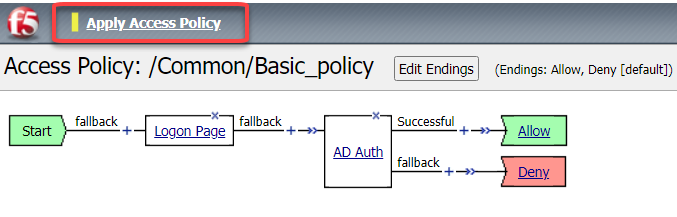
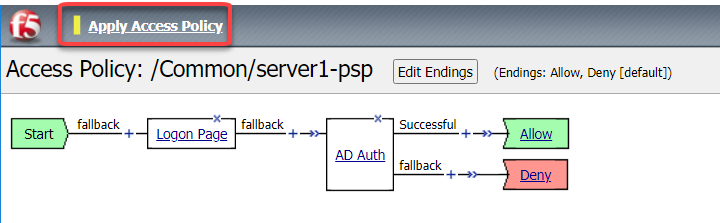
updates

diff --git a/class1/module1/lab01.rst b/class1/module1/lab01.rst
@@ -514,10 +514,10 @@ BIG-IP APM supports industry standard authentication methods, including:
     .. Note:: Client-side authentication methods outnumber server-side methods. This is because BIG-IP APM does not transmit client certificate, RSA SecurID, or one-time passcodes to the server on the client’s behalf.
 
 #.  Go to **Access** --> **Single Sign-On** --> **HTTP Basic**
-#.  Click **Create**
+#.  Click **basic_http_sso**
 
         +----------------------+-----------------------------+----------------------------------+
-        |General Properties    | Name                        |  Basic_http_sso                  |
+        |General Properties    | Name                        |  basic_http_sso                  |
         +----------------------+-----------------------------+----------------------------------+
         |Credential Source     | Username Source             |  session.sso.token.last.username |
         +----------------------+-----------------------------+----------------------------------+
@@ -528,66 +528,31 @@ BIG-IP APM supports industry standard authentication methods, including:
 
         .. Note::  Username conversion can be enabled if you want domain\username or username@domain to convert to just username.
 
-#. Click **Finished**
 #. Click on **Access** --> *Profiles/Policies** --> **Access Profiles (Per-Session Policies)**
-#. Locate your server1-psp profile and click on the name
+#. Locate the basic-psp profile and click on the name
 #. Click on **SSO/Auth Domains**
-#. Under SSO Configuration click the drop down and select **Basic_http_sso** click update
-#. From the top menu bar click **Access Policy** and click **Edit Access Policy for Profile "server1-psp"** link
+#. Under SSO Configuration click the drop down and select **basic_http_sso** click update
+#. From the top menu bar click **Access Policy** and click **Edit Access Policy for Profile "basic-psp"** link
 #. Click the **+** between **AD Auth** and **Allow**
 #. Click on **Assignment** and choose **SSO Credential Mapping** -->  **Add Item** -->  **Save**
 #. Click **Apply Policy**
-#. Open an incognito window and try go to https://server2.acme.com
+#. Open an incognito window and try go to https://basic.acme.com
 #. You should have been prompted with a windows login.  Close the Window
 #. Go to **Local Traffic** --> **Virtual Servers** and open server2-https
-#. Scroll to *Access Policy** and click the drop down next to **Access Profile**.  Choose server1-psp
+#. Scroll to *Access Policy** and click the drop down next to **Access Profile**.  Choose basic-psp
 #. Scroll down click **Update**
-#. Open a new incognito tab.  Go to https://server2.acme.com
+#. Open a new incognito tab.  Go to https://basic.acme.com
 #. Login **user1** and **user1**
 #. Now you should have been signed in to the backend server with Single Sign On.
 
 Task 7: Federation
 ----------------------------
 
-**Authentication and authorization**
-
-    Most organizations require users to verify their identity (authenticate). Additionally, most organizations control (authorize) the resources each user can access and the actions they can take when using their applications (services), based on their identity.
-
-**Identity providers and service providers**
-
-    Federation is an agreement between organizations to trust user authentication and/or authorization from one organization (identity provider (IdP)) to access services from the other organizations in the group (service providers (SPs)). In this model, one organization can be both the IdP and an SP or simply an SP.
-
-    Federation provides many benefits to organizations and users, including single sign-on (SSO), which enables users to avoid logging in to each SP.
-
-**Standard web security protocols**
-
-    To manage and map identities across geographies, SPs, and services, federation relies on common standards and protocols.
-
-**SAML 2.0**
-
-    Security Assertion Markup Language (SAML) 2.0 is an open standard for exchanging authentication and authorization data between SPs. SAML 2.0 is an XML-based language that shares messages containing user information (assertions) while protecting their identity, thereby enabling a trusted relationship between SPs to perform services. SAML 2.0 relies on Simple Object Access Protocol (SOAP) to make web service calls.
-
-**Faster and easier**
-
-    However, in recent years, representational state transfer (REST) has gained popularity as a light-weight alternative to SOAP that makes web service calls more quickly. Developers combine REST with JSON to transmit user data, instead of XML, because it is easier to implement and contains small, compact messages. This combination is the basis for OAuth 2.0 and OpenID Connect.
-
-**OAuth 2.0**
-
-    OAuth 2.0 is an open standard for exchanging authorization data—but not authentication data—between SPs. It is a set of defined process flows for accessing resources on behalf of the user (delegated authorization).
-
-    In this model, the user (resource owner) has a resource hosted by one SP (on a resource server) that they want to make available to another SP (client), such as importing a list of contacts. The resource server must authorize the client’s access (using an authorization server) on behalf of the user. The resource owner does not sign in to the client, which requires authentication; however, the resource owner may be prompted to give consent to authorize the client’s access. For more information about BIG-IP APM and OAuth 2.0, refer to OAuth authorization.
-
-**OpenId Connect**
-
-    OpenId Connect is an open standard for exchanging authentication data—but not authorization data—between SPs. OpenId Connect uses OAuth 2.0 and adds additional steps over its process flows to perform authentication. In short, when an authorization server is enabled for OpenId Connect, it provides an ID token in addition to an access token.
-
-    In this model, users use their account from one SP to sign in to another, such as using a Google or Facebook account to sign in to another website. The SP owning the account is the IdP with the authorization server and the other SP is the client.
-
 **BIG-IP APM federation with SAML**
 
     BIG-IP APM supports SAML 2.0 and can act as the IdP for popular SPs, such as Microsoft Office 365 and Salesforce. The system supports both IdP- and SP-initiated identity federation deployments.
 
-    IdP-initiated federation with BIG-IP APM
+IdP-initiated federation with BIG-IP APM
 
         |samlidp|
 
@@ -613,54 +578,6 @@ SP-initiated federation with BIG-IP APM
 
 #. Tasks login to sp.acme.com
 #. Look at Policy
-
-**Using a custom SP portal instead of the BIG-IP APM webtop for federation**
-
-      Some enterprises do not want to use the built-in BIG-IP APM webtop as the portal to their SPs. Instead, they want to create their own, customized, external portal. For more information about the webtop, refer to Webtop.
-
-      As of BIG-IP APM 14.0, you can use a custom, external portal when you can use SAML inline SSO for federation. You must meet the following conditions:
-
-          - Federation is SP-initiated. That is, when a user visits an SP, the BIG-IP APM acts as the IdP.
-          - You have an existing per-session policy.
-          - Users visit the SP using the BIG-IP in BIG-IP LTM + BIG-IP APM mode.
-
-**Using SAML inline SSO**
-
-      When you use SAML inline SSO, when BIG-IP APM receives an SP authentication request, it generates a SAML assertion on-the-fly to automatically sign in the user. The BIG-IP APM IdP is chained so
-      that it accepts an assertion from another SAML IdP to create the session. The system constructs session data using the same method.
-
-      How it works
-
-          - You put an internal SP behind the virtual address for the IdP.
-          - You configure the internal SP server in a typical BIG-IP LTM pool on the virtual server. An SP that is load balanced by the BIG-IP can be either a SAML-enabled application or a third-party SAML SP.
-          - When the client transmits an authentication request to the BIG-IP APM IdP, the system generates assertions for the application.
-
-
-
-      |inlinesaml|
-
-         - The user attempts to access a resource and BIG-IP APM starts access policy evaluation.
-         - The system authenticates the user.
-         - The user resends the original request.
-         - The BIG-IP system load balances the request to a pool member associated with the virtual server.
-         - When the user doesn’t have a valid session, the internal SP or SAML-enabled application generates an authentication request and redirects the user to the IdP.
-         - The system forwards the application response to the user, the browser evaluates it, and it results in an authentication request.
-         - The user submits the authentication request back to the BIG-IP virtual server.
-         - The BIG-IP APM IdP validates the request and, when successful, generates an assertion.
-         - The system modifies the client’s HTTP request and releases it to the internal SP.
-         - The internal SP receives and validates the assertion for the BIG-IP system.
-         - The SP either provides access to the application or provides an error to the user, depending on the result of validation.
-
-         .. Note:: For more information about using SAML inline SSO, refer to K06743491: Overview of BIG-IP APM SAML inline SSO.
-
-**Using SAML inline SSO with multiple unique host names**
-
-      Typically, you identify, load balance, and secure an SP by giving it a unique virtual address and host name, such as salesforce.f5.com. However, when you have multiple SPs with unique host names
-      that you want to locate behind a single BIG-IP IdP, you don’t have to configure multiple BIG-IPs to act as IdP for each SP. That approach quickly becomes overly complex.
-
-      Instead, you can share a single access profile across all virtual addresses participating in SAML inline SSO. In this model, there is a main authentication virtual server that performs authentication
-      and generates SAML assertions when requested. The SPs on other virtual servers use the same access profile. For more information, refer to the SP-initiated multi-domain inline SAML SSO section in
-      K06743491: Overview of BIG-IP APM SAML inline SSO.
 
 
 Task 8: Connectivity/VPN
@@ -697,218 +614,64 @@ The Advanced Resource Assign agent grants a user access to the assigned resource
 
 **Supporting APM Objects**
 
-Network Access Resource
+**Network Access Resource**
 
-The Properties page contains the Caption name **VPN**.  This is the name displayed to a user.
+      The Properties page contains the Caption name **VPN**.  This is the name displayed to a user.
 
-|image005|
-
-
-- The Network Settings tab assigns the **lease pool** of ip addresses that will be used for the VPN.
-- Split Tunneling is configured to permit only the **10.1.20.0/24** subnet range inside the VPN.
-
-|image006|
+            |image005|
 
 
-Lease Pool
+      - The Network Settings tab assigns the **lease pool** of ip addresses that will be used for the VPN.
+      - Split Tunneling is configured to permit only the **10.1.20.0/24** subnet range inside the VPN.
 
-A single address of **10.1.20.254** is assigned inside the lease pool.
-
-|image007|
-
-
-Webtop Sections
-
-A single section is configured to display a custom name.
-
-|image008|
+            |image006|
 
 
-Webtop
+**Lease Pool**
 
-- A Full Webtop was defined with modified default settings.
-- The Minimize to Tray box is **checked** to ensure the Webtop is not displayed when a user connects to the VPN.
+      A single address of **10.1.20.254** is assigned inside the lease pool.
 
-|image009|
+            |image007|
 
-The Policy from a user's perspective
+
+**Webtop Sections**
+
+      A single section is configured to display a custom name.
+
+      |image008|
+
+
+      Webtop
+
+      - A Full Webtop was defined with modified default settings.
+      - The Minimize to Tray box is **checked** to ensure the Webtop is not displayed when a user connects to the VPN.
+
+      |image009|
+
+**The Policy from a user's perspective**
 
 
 #. The connects to https://solution1.acme.com with the following credentials
 
-   - Username: user1
-   - Password: user1
+         - Username: user1
+         - Password: user1
 
-|image010|
+      |image010|
 
 #. Once authenticated the user is presented a Webtop with a single VPN icon.
 
-|image011|
+      |image011|
 
 #. Assuming the VPN has already been installed the user is notified that the client is attempting to start
 
-|image012|
+      |image012|
 
 #. A popup opens displaying the status of the VPN connection.  The status will eventually become **Connected**
 
-|image013|
+      |image013|
 
 
-
-Task 9: API Protection
-----------------------------
-An API protection profile is the primary tool that Access Policy Manager administrators use to safeguard API servers. Protection profiles define groups of related RESTful APIs used by applications.
-The protection profile contains a list of paths that may appear in a request. The system classifies requests and sends them to specific API servers.
-
-The simplest way to create an API protection profile and establish API protection is using an OpenAPI Spec file to import the details of the APIs. If you use an OpenAPI Spec file, Access Policy
-Manager automatically creates the following (depending on what's included in the spec file):
-
-- API Protection Profile
-- Paths
-- API servers
-- Responses
-- Per-request policy with a Request Classification agent and a subroutine containing an OAuth scope check agent
-
-
-To enable API protection, the API Protection Profile must be associated with a virtual server. If using API Protection, the virtual server can have only one API Protection Profile associated with it.
-You cannot select other access profiles or per-request policies in that virtual server.
-
-
-Task 10: Secure Web Gateway
-----------------------------
-
-About APM Secure Web Gateway
-BIG-IP Access Policy Manager (APM) implements a Secure Web Gateway (SWG) for outbound access by providing access control based on URL categorization to forward proxy. With APM, you can create
-a configuration to protect your network assets and end users from threats, and enforce a use and compliance policy for Internet access. Users that access the Internet from the enterprise go through
-APM, which can allow or block access to URL categories or indicate that the user should confirm the URL before access can be allowed.
-Benefits of using APM for web access
-BIG-IP Access Policy Manager (APM®) controls basic website access purely based on user-defined URL categories. This feature is a part of base APM functionality, without requiring an SWG subscription.
-The benefits include:
-
-    URL filtering capability for outbound web traffic.
-    Monitoring and gating outbound traffic to maximize productivity and meet business needs.
-    User identification or authentication (or both) tied to logging, and access control compliance and accountability.
-    Visibility into SSL traffic.
-    Reports on blocked requests and all requests. (Reports depend on event logging settings.)
-    Ability to interactively request additional authentication for sensitive resources and provide time-limited access to them in subsessions.
-    Ability to interactively request confirmation before allowing or blocking access to resources that might not, in all instances, provide benefit to the business. Confirmation and access take place
-    in a subsession with its own lifetime and timeout values.
-
-Secure Web Gateway subscription benefits
-A BIG-IP Access Policy Manager (APM) with a Secure Web Gateway (SWG) subscription provides these benefits over those supplied by APM alone:
-
-    A database with over 150 predefined URL categories and 60 million URLs.
-    A service that regularly updates the URL database as new threats and URLs are identified.
-    Identification of malicious content and the means to block it.
-    Web application controls for application types, such as social networking and Internet communication in corporate environments.
-    Support for Safe Search, a search engine feature that can prevent offensive content and images from showing up in search results.
-    A dashboard with statistical information about traffic logged by the BIG-IP system for SWG. Graphs, such as Top URLs by Request Count and Top Categories by Blocked Request Count, summarize
-    activities over time and provide access to underlying statistics.
-
-SWG subscription benefits extend these APM benefits:
-
-    URL filtering capability for outbound web traffic.
-    Monitoring and gating outbound traffic to maximize productivity and meet business needs.
-    User identification or authentication (or both) tied to logging, and access control compliance and accountability.
-    Visibility into SSL traffic.
-    Reports on blocked requests and all requests. (Reports depend on event logging settings.)
-    Ability to interactively request additional authentication for sensitive resources and provide time-limited access to them in subsessions.
-    Ability to interactively request confirmation before allowing or blocking access to resources that might not, in all instances, provide benefit to the business. Confirmation and access take
-    place in a subsession with its own lifetime and timeout values.
-
-What happens when the Secure Web Gateway subscription expires?
-Secure Web Gateway (SWG) subscriptions expire periodically depending on the subscription length your company purchased. The system displays a warning message when the subscription is about to expire.
-If you fail to renew the subscription, your organization will lose access to SWG functionality, including category lookup within the Forcepoint URL database, request analytics, and response analytics.
-Depending on how the per-request policies implementing SWG are configured, requests to access the Internet through the forward proxy may fail.
-If the SWG subscription expires and Reset on Failure
-is enabled in the Category lookup/Analytics agents, a TCP reset occurs whenever the category lookup fails. Clients receive no response from the server in this case and requests fail. You can configure
-a per-request policy to branch on failure and specify what you want to happen (such as Allow, Reject, or specify another path). For maximum protection, it is recommended that you renew the SWG
-subscription before it expires.
-About the URL database URL categories
-The URL database is available only on a BIG-IP-APM system with an SWG subscription.
-The Secure Web Gateway URL database supplies over 150 URL categories and identifies over 60 million URLs that fit within these categories. In addition, you can create custom categories if needed and
-add URLs to any category, custom or otherwise. You can also use custom categories to define blacklists and whitelists.
-About user-defined URL categories
-Without a URL database, an administrator tasked with treating only a few URLs differently can specify criteria for matching those few URLs in a simple URL Branching
-action in a per-request policy. An administrator who must categorize and filter a large number of URLs can, however, do this using Access Policy Manager (APM) user-defined URL categories.
-About APM session management cookies and forward proxy
-When Access Policy Manager (APM®) acts as a forward proxy, APM does not use session management cookies. If presented with an APM session management cookie while acting as a forward proxy, APM ignores
-the cookie.
-
-
-
-Task 11: Access Control Lists
------------------------------
-BIG-IP APM uses ACLs to restrict user access to specified internal hosts, ports and/or URIs. For an ACL to have an effect on traffic, it must be assigned to a user session. ACLs are applied to
-all access methods by default.
-
-An ACL consists of a list of access control entries (ACEs). These entriescan work on L4, L7, or both.
-
-In addition to source (ip:port), destination (ip:port), and Scheme + URI (for L7), each ACL and its entries has a unique acl-order field that determines its priority.
-
-Important: Important If no webtop is assigned during access policy execution, the session is in Web Access Management/LTM-APM mode.
-
-During access policy execution, BIG-APM assigns a list of ACLs to a user session. BIG-IP APM tests ACLs and ACEs in order, based on their priority in the respective list. To make sure of compliance
-with network use policies, the order must be correct.
-
-If there are no ACLs assigned to a session by the access policy, the default behavior for the session traffic is Allow.
-
-If a default deny stance is required, an ACL with a Deny All entry should be configured. This ACL should be assigned to the user session at the end of the ACL entry list (that is, its order field
-value should be highest number). BIG-IP APM rejects any connection not matched by a previous entry.
-
-ACLs can be configured to create log entries when they are matched. These log entries appear in the /var/log/pktfilter log file. You can view them in the Configuration utility by going to System >
-Logs > Packet Filter.
-
-When BIG-IP APM applies an ACL is applied to an access policy, the policy dynamically creates an internal layered virtual server that the system uses to apply the ACL. However, if the BIG-IP APM
-virtual server targets a layered virtual server, such as an SSO layered virtual server, traffic bypasses the dynamically-created internal layered virtual server and the ACL is not applied.
-
-For more information, refer to K14219: An L4 ACL is not applied to the network access tunnel when a virtual server is used.
-
-Dynamic ACLs
-
-A dynamic ACL is an ACL created on and stored in an LDAP, RADIUS, or ActiveDirectory server. A dynamic ACL action dynamically creates ACLs based on attributes from the AAA server. Because a dynamic
-ACL is associated with a user directory, you can use it to assign ACLs specifically per the user session. BIG-IP APM supports dynamic ACLs in an F5 ACL format, and in a subset of the Cisco ACL format.
-
-When using dynamic ACLs, make sure that the dynamic ACL appears after authentication in an access policy since its actions are determined by attributes received from an authentication server. If it’s
-configured in a Cisco format, make sure the dynamic ACL contains the prefix ip:inacl#.
-
-For more information, refer to Configuring Dynamic ACLs in BIG-IP Access Policy Manager: Implementations.
-
-Note: For information about how to locate F5 product manuals, refer to K98133564: Tips for searching AskF5 and finding product documentation.
-
-
-Task 12: Webtops
-----------------------------
-A webtop is a BIG-IP APM customizable landing page. At the end of successful access policy execution and final client POST to complete the access policy, the client can be redirected to a BIG-IP
-APM webtop.
-
-Webtop types
-
-BIG-IP APM supports three types of webtop:
-
-    Network Access—Contains JavaScript and browser plug-ins to start Network Access on supported browsers or BIG-IP Edge Client.
-    Portal Access—Contains a 302 redirect to the Portal Access encoded URL.
-    Full webtop—Contains a complex set of JavaScript, XML, and HTML to present a menu to users. Assigned resources are presented to the user as icons. A full webtop also allows the starting of
-    Network Access from a browser and BIG-IP Edge Client.
-
-Note: If no webtop is assigned during access policy execution, the session is in Web Access Management/LTM-APM mode.
-
-Features
-
-The full webtop can replace intranet or extranet portal pages, offering users a centralized place to start assigned applications.
-
-Network Access and Portal Access webtops automatically place users into a specific application assigned during access policy execution.
-
-BIG-IP APM provides a basic customization framework allowing administrators to alter images, color, and layout settings.
-
-The advanced customization framework allows web developers to completely replace all BIG-IP APM-delivered web content, including webtops, logon pages, and error pages.
-
-Implementation
-
-In BIG-IP 12.0 and later, Webtop Sections can be assigned to user during Access Policy Execution.
-
-Webtop sections can contain up to 300 ordered references to APM resources and are available only with a full webtop.
-
+.. Note:: For more information on API Protection consider taking the API Protection lab.  For more information on SWG, ACL and Webtops see the appendix or further APM labs.
 
 Lab 2 is now complete.
 
